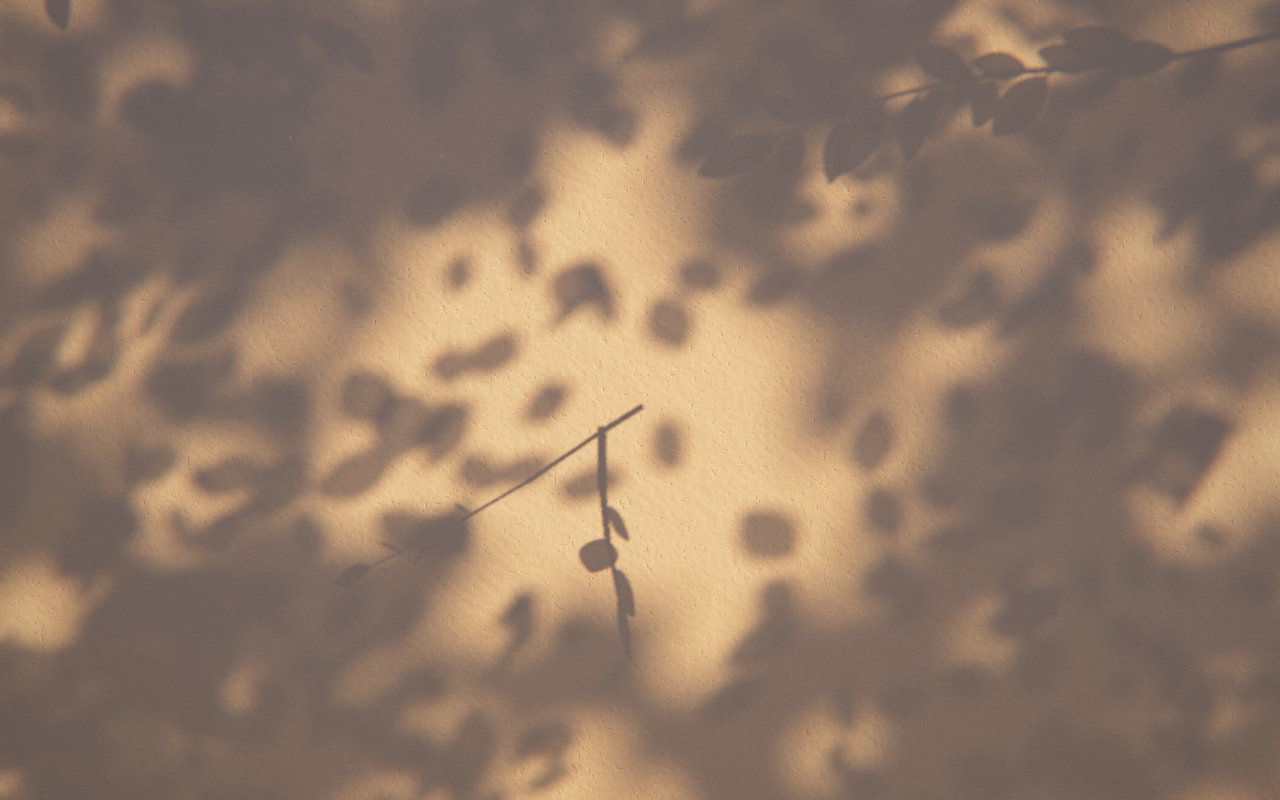
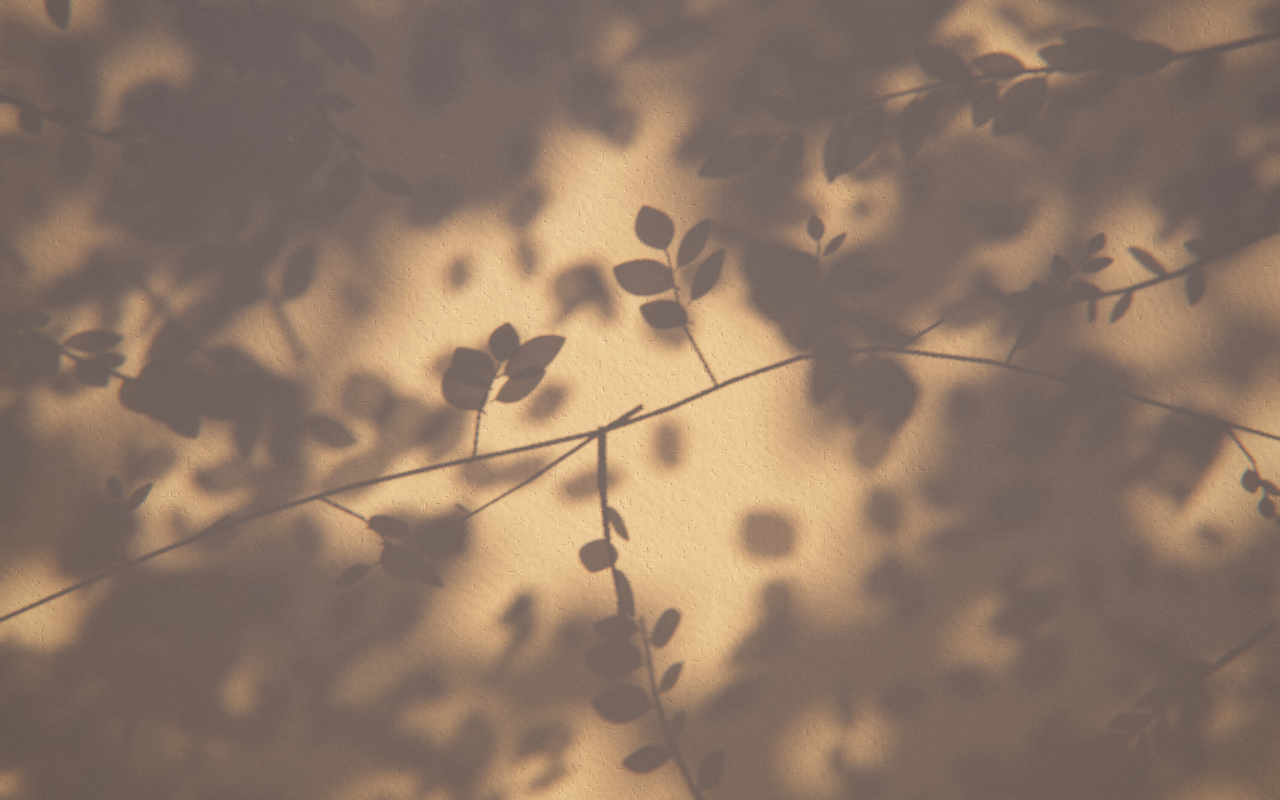
Komorebi Clock: hide the clock among a vine and more branches
The sprig now grows from a node of a vine that climbs across the wall a
few centimetres out, held by small stems. The vine's other side twigs look
much like the hands, and a dozen more 3D branches (six close by from the
edges, six farther out with softer shadows on a third near layer) fill the
wall, so the time only shows when you look for it.

diff --git a/komorebi/extension/newtab.js b/komorebi/extension/newtab.js
@@ -237,7 +237,8 @@ uniform vec4 uSun;     /* projected sun direction xy (unit), elongation 1/s.z, -
 uniform vec4 uRad;     /* penumbra radius (wall units): twig hands, near branches, mid canopy, far canopy */
 uniform vec2 uBias;    /* mip level: mid canopy, far canopy */
 uniform vec4 uPool;    /* the clearing: centre.xy, radius, strength */
-uniform sampler2D uNear;   /* r: twig hands, g: near branches */
+uniform float uRadB;   /* penumbra radius of the farther branches */
+uniform sampler2D uNear;   /* r: the vine and the sprig, g: near branches, b: farther branches */
 uniform sampler2D uCan;    /* r: mid canopy, g: far canopy (mipmapped) */
 ${NOISE}
 vec2 tap(float i, float n, float rot){
@@ -260,7 +261,9 @@ void main(){
   for (int i = 0; i < 28; i++) mid += CANLOD(uCan, uv + E * tap(float(i), 28., rot) * uRad.z * sc, uBias.x).r;
   for (int i = 0; i < 10; i++) nb += texture2D(uNear, uv + E * tap(float(i), 10., rot) * uRad.y * sc).g;
   for (int i = 0; i < 5; i++) hd += texture2D(uNear, uv + E * tap(float(i), 5., rot) * uRad.x * sc).r;
-  float V = (1. - far / 40.) * (1. - mid / 28.) * (1. - nb / 10.) * (1. - hd / 5.);
+  float mb = 0.;
+  for (int i = 0; i < 12; i++) mb += texture2D(uNear, uv + E * tap(float(i), 12., rot) * uRadB * sc).b;
+  float V = (1. - far / 40.) * (1. - mid / 28.) * (1. - nb / 10.) * (1. - hd / 5.) * (1. - mb / 12.);
   float dial = uPool.w * smoothstep(1.05, .55, length((p - uPool.xy) / uPool.z * vec2(.88, 1.)));
   float dith = (hash12(gl_FragCoord.xy + fract(uView.w * 7.3) * 91.7) - .5) / 255.;
   gl_FragColor = vec4(V * .5 + dith, dith, dial * .5, 1.);
@@ -512,6 +515,8 @@ function resize() {
 
   makeLightTarget();
   layoutBranches();
+  buildVine();
+  buildMoreBranches();
   buildCanopy();
 
   if (!plasterFBO) plasterDirty = true;
@@ -889,7 +894,7 @@ function buildCanopy() {
 }
 
 /* Things close to the wall are posed every frame. */
-const NEAR_MAX = 128;
+const NEAR_MAX = 420;
 const nearData = new Float32Array(NEAR_MAX * 4 * FPV);
 let nearQ = 0, kNow = [0, 0];
 const proj = a => [a[0] - a[2] * kNow[0], a[1] - a[2] * kNow[1]];
@@ -929,6 +934,107 @@ function emitClearing(c, R, t) {
     putQuad(nearData, nearQ++, [cx - ux * ra, cy - uy * ra, 0], [ux * 2 * ra, uy * 2 * ra, 0], [-uy * ra * el, ux * ra * el, 0], [0, 0, 2, 1]);
   }
 }
+/* a leaf in 3D: direction in the wall's plane plus a tilt, face toward the wall, turned about its midrib */
+function emitLeaf3D(base, ang, tz, ll, wf, twist, opacity) {
+  let Ld = [Math.cos(ang), Math.sin(ang), tz];
+  const n0 = Math.hypot(Ld[0], Ld[1], Ld[2]); Ld = Ld.map(x => x / n0);
+  let nr = [-Ld[2] * Ld[0], -Ld[2] * Ld[1], 1 - Ld[2] * Ld[2]];
+  const nn = Math.hypot(nr[0], nr[1], nr[2]) || 1; nr = nr.map(x => x / nn);
+  nr = rotAbout(nr, Ld, twist);
+  const Wd = [Ld[1] * nr[2] - Ld[2] * nr[1], Ld[2] * nr[0] - Ld[0] * nr[2], Ld[0] * nr[1] - Ld[1] * nr[0]];
+  const hw = ll * 0.30 * wf;
+  emitLeaf(base, Ld.map(x => x * ll * 1.1), Wd.map(x => x * hw), opacity);
+}
+
+/* A vine climbs across the wall a few centimetres out from it. The clock's
+   sprig grows from one of its nodes; its other side twigs look much the same,
+   so the time hides among them.                                              */
+function catmull(P, u) {
+  const n = P.length - 1, f = Math.min(n - 1e-6, Math.max(0, u) * n), i = Math.floor(f), t = f - i;
+  const p0 = P[Math.max(0, i - 1)], p1 = P[i], p2 = P[i + 1], p3 = P[Math.min(n, i + 2)];
+  const t2 = t * t, t3 = t2 * t;
+  return [0, 1].map(j => 0.5 * (2 * p1[j] + (-p0[j] + p2[j]) * t + (2 * p0[j] - 5 * p1[j] + 4 * p2[j] - p3[j]) * t2 + (-p0[j] + 3 * p1[j] - 3 * p2[j] + p3[j]) * t3));
+}
+let VINE = null;
+function buildVine() {
+  const r = mulberry(909);
+  const pts = [[-halfW - 0.08, -0.30], [-halfW * 0.55, -0.12], [PIVOT.x, PIVOT.y], [halfW * 0.45, 0.10], [halfW + 0.08, -0.04]];
+  const twigs = [0.07, 0.17, 0.29, 0.40, 0.61, 0.71, 0.82, 0.93].map(u => ({
+    u, ang: (r() < 0.5 ? -1 : 1) * (0.5 + 1.1 * r()), len: 0.07 + 0.12 * r(), nl: 3 + Math.floor(r() * 3),
+    side: r() < 0.5 ? -1 : 1, ph: r() * 50, big: r() < 0.35 }));
+  VINE = { pts, twigs, holds: [0.21, 0.76] };
+}
+function emitVine(t) {
+  const V = VINE, N = 16;
+  const zAt = u => Z0 + 0.012 * Math.sin((u - 0.5) * 9);
+  const pt = u => { const q = catmull(V.pts, u); return [q[0], q[1], zAt(u)]; };
+  let prev = pt(0);
+  for (let i = 1; i <= N; i++) { const p = pt(i / N); emitSeg(prev, p, 0.0036 - 0.0012 * Math.abs(i / N - 0.5), 1); prev = p; }
+  for (const h of V.holds) { const p = pt(h); emitSeg([p[0], p[1], 0], p, 0.0024, 1); }   /* holdfasts to the wall */
+  const fl = flutterAt(0);
+  for (const tw of V.twigs) {
+    const b = pt(tw.u), b2 = pt(Math.min(1, tw.u + 0.01));
+    const a = Math.atan2(b2[1] - b[1], b2[0] - b[0]) + tw.ang + fl * 0.05 * sn1(t * 0.8 + tw.ph);
+    const e = [b[0] + Math.cos(a) * tw.len, b[1] + Math.sin(a) * tw.len, b[2] + 0.012];
+    const m = [(b[0] + e[0]) / 2 - Math.sin(a) * tw.len * 0.07, (b[1] + e[1]) / 2 + Math.cos(a) * tw.len * 0.07, b[2] + 0.006];
+    emitSeg(b, m, 0.0026, 1); emitSeg(m, e, 0.0018, 1);
+    for (let k = 0; k < tw.nl; k++) {
+      const s = 0.35 + 0.65 * (k + 1) / tw.nl;
+      const p = [b[0] + (e[0] - b[0]) * s, b[1] + (e[1] - b[1]) * s, b[2] + 0.012 * s];
+      const side = k === tw.nl - 1 ? 0 : (k % 2 ? 1 : -1) * tw.side;
+      const ll = (tw.big ? 0.064 : 0.040) * (0.85 + 0.3 * ((k * 0.37 + tw.ph) % 1));
+      emitLeaf3D(p, a + side * 0.72 + fl * 0.15 * sn1(t * 2.1 + tw.ph + k), 0.25 * (side || 0.6), ll, tw.big ? 1.1 : 0.85,
+                 0.3 * (side || 1) + fl * 0.9 * sn1(t * (0.9 + 0.13 * k) + tw.ph * 1.7), 0.96);
+    }
+  }
+}
+
+/* More branches in front of the wall: some reach in from the edges close by
+   (sharp shadows), some hang farther out (softer ones).                     */
+let MORE = [];
+function buildMoreBranches() {
+  const r = mulberry(31337);
+  MORE = [];
+  const hw = halfW, yb = yBot;
+  const mk = (x, y, ang, z, ch) => {
+    const nSeg = 5 + Math.floor(r() * 3), segs = [], leaves = [];
+    for (let i = 0; i < nSeg; i++) segs.push({ len: (0.05 + 0.05 * r()) * (1 - i / (nSeg + 3)), curve: (r() - 0.5) * 0.45 });
+    const nl = 8 + Math.floor(r() * 8);
+    for (let k = 0; k < nl; k++) leaves.push({ s: 0.15 + 0.85 * (k + r() * 0.8) / nl, side: k % 2 ? 1 : -1, off: 0.45 + 0.5 * r(),
+      len: (0.042 + 0.034 * r()) * (z > 0.5 ? 1.25 : 1), wf: 0.85 + 0.3 * r(), ph: r() * 90, tz: (r() - 0.5) * 0.6 });
+    MORE.push({ x, y, ang, z, ch, segs, leaves, flex: 0.6 + 0.6 * r(), ph: r() * 100 });
+  };
+  for (let i = 0; i < 6; i++) {
+    const side = i % 4;
+    if (side === 0) mk(-hw - 0.04, yb + r() * (0.5 - yb), (r() - 0.5) * 1.2, 0.2 + 0.22 * r(), 1);
+    else if (side === 1) mk(hw + 0.04, yb + r() * (0.5 - yb), Math.PI + (r() - 0.5) * 1.2, 0.2 + 0.22 * r(), 1);
+    else if (side === 2) mk((r() * 2 - 1) * hw, 0.54, -Math.PI / 2 + (r() - 0.5) * 1.4, 0.2 + 0.22 * r(), 1);
+    else mk((r() * 2 - 1) * hw, yb - 0.04, Math.PI / 2 + (r() - 0.5) * 1.4, 0.2 + 0.22 * r(), 1);
+  }
+  for (let i = 0; i < 6; i++) mk((r() * 2 - 1) * hw * 1.05, yb + r() * (0.55 - yb), r() * 6.2832, 0.55 + 0.55 * r(), 2);
+}
+function emitMore(B, t, aK) {
+  const fl = flutterAt(B.x);
+  const bend = (wind.mid.x * 1.6 + 0.010 * sn1(t * 0.33 + B.ph)) * B.flex;
+  let x = B.x, y = B.y, a = B.ang;
+  const pts = [[x, y, a]];
+  for (let i = 0; i < B.segs.length; i++) {
+    a += B.segs[i].curve + bend * (0.3 + 0.25 * i);
+    x += Math.cos(a) * B.segs[i].len; y += Math.sin(a) * B.segs[i].len;
+    pts.push([x, y, a]);
+  }
+  const n = B.segs.length, z = B.z;
+  const w3 = p => [p[0] + z * aK[0], p[1] + z * aK[1], z];
+  for (let i = 0; i < n; i++) emitSeg(w3(pts[i]), w3(pts[i + 1]), (0.0055 - 0.0035 * i / n) * (z > 0.5 ? 1.3 : 1), 1);
+  for (const L of B.leaves) {
+    const f = L.s * n, i = Math.min(n - 1, Math.floor(f)), u = f - i;
+    const p = [pts[i][0] + (pts[i + 1][0] - pts[i][0]) * u, pts[i][1] + (pts[i + 1][1] - pts[i][1]) * u];
+    let ang = pts[i + 1][2] + L.side * L.off + fl * (0.18 * sn1(t * 2.2 + L.ph) + 0.06 * sn1(t * 5.3 + L.ph * 2.1));
+    ang += Math.atan2(Math.sin(-Math.PI / 2 - ang), Math.cos(-Math.PI / 2 - ang)) * 0.15;     /* leaves droop a little */
+    emitLeaf3D(w3(p), ang, L.tz, L.len, L.wf, 0.3 * L.side + fl * 0.9 * sn1(t * 1.1 + L.ph * 1.3), 0.95);
+  }
+}
+
 function rotAbout(v, ax, a) {
   const c = Math.cos(a), s = Math.sin(a);
   const d = ax[0] * v[0] + ax[1] * v[1] + ax[2] * v[2];
@@ -1118,16 +1224,20 @@ function frame(now) {
   emitSeg([PIVOT.x, PIVOT.y, 0], [PIVOT.x, PIVOT.y, Z0], 0.0040, 1);
   emitHand(fr.h, R * 0.62, 0.05, 0.010, 0.0062, 0.0034, HOUR_LEAVES, wt, sw * 0.8, 3.1, R / 0.31);
   emitHand(fr.m, R, -0.035, 0.016, 0.0030, 0.0014, MIN_LEAVES, wt, sw, 11.7, R / 0.31);
+  emitVine(wt);
   const handQ = nearQ;
   poseBranch(branchA, wt, 0, 0, leafA, leafWA, jointA);
   poseBranch(branchB, wt, 0, 0, leafB, leafWB, jointB);
   const aK = [0.85 * k[0], 0.85 * k[1]];      /* the branches hang so their shadows stay near the corners */
   emitBranch(branchA, leafA, leafWA, jointA, 0.34, 0.24, aK, 0.0052, 0.0018);
   emitBranch(branchB, leafB, leafWB, jointB, 0.42, 0.30, aK, 0.0065, 0.0030);
+  for (const B of MORE) if (B.ch === 1) emitMore(B, wt, aK);
   const branchQ = nearQ - handQ;
+  for (const B of MORE) if (B.ch === 2) emitMore(B, wt, aK);
+  const farBrQ = nearQ - handQ - branchQ;
   const holeC = [PIVOT.x - Z0 * k[0], PIVOT.y - Z0 * k[1]];
   emitClearing(holeC, R * 1.12, wt);
-  const clearQ = nearQ - handQ - branchQ;
+  const clearQ = nearQ - handQ - branchQ - farBrQ;
   gl.bindBuffer(gl.ARRAY_BUFFER, nearBuf);
   gl.bufferSubData(gl.ARRAY_BUFFER, 0, nearData.subarray(0, nearQ * 4 * FPV));
 
@@ -1158,7 +1268,7 @@ function frame(now) {
   gl.uniform4f(O.u('uTile'), 0, 0, 0, 0);
   gl.uniform4f(O.u('uW1'), 0, 0, 0, 0);
   gl.uniform4f(O.u('uW2'), -99, 0, 1, 0);
-  drawQuads(nearBuf, handQ + branchQ, clearQ);
+  drawQuads(nearBuf, handQ + branchQ + farBrQ, clearQ);
   gl.blendEquation(gl.FUNC_ADD);
   gl.colorMask(true, true, true, true);
   gl.bindFramebuffer(gl.FRAMEBUFFER, nearT.fb);
@@ -1172,6 +1282,7 @@ function frame(now) {
   gl.uniform4f(O.u('uHole'), 0, 0, 0, 0);
   gl.colorMask(true, false, false, false); drawQuads(nearBuf, 0, handQ);
   gl.colorMask(false, true, false, false); drawQuads(nearBuf, handQ, branchQ);
+  gl.colorMask(false, false, true, false); drawQuads(nearBuf, handQ + branchQ, farBrQ);
   gl.colorMask(true, true, true, true);
   occAttribs(false);
   gl.disable(gl.BLEND);
@@ -1192,6 +1303,7 @@ function frame(now) {
   const lpx = (0.5 - yBot) / lightFBO.h;
   const rMid = penum(1.3), rFar = penum(4.4);
   gl.uniform4f(P.u('uRad'), Math.max(penum(Z0 + 0.01), 0.9 * lpx), Math.max(penum(0.32), lpx), rMid, rFar);
+  gl.uniform1f(P.u('uRadB'), Math.max(penum(0.85), lpx));
   const tpu = canT.h / occRect[3];
   /* mip level where neighbouring taps just overlap: log2 of the tap spacing in texels */
   const bias = (r, n) => Math.max(0, Math.log2(Math.sqrt(Math.PI * (r * tpu) * (r * tpu) / sz / n)) + (lodMode ? 0.2 : -0.5));

diff --git a/komorebi/README.md b/komorebi/README.md
@@ -2,7 +2,7 @@
 
 A Chrome extension that replaces the new tab page with sunlight falling through leaves onto a plaster wall. It is a clock without numerals: the time is told by the shadow of a sprig.
 
-Everything on the wall is a shadow of something in front of it, cast by a sun that moves with the local hour. A far canopy (5 to 9 m from the wall) is an almost closed roof of leaves; the light through its gaps lands as soft, round pinhole images of the sun. A nearer layer of leaves (1.5 to 3 m) casts blurred leaf shapes, two branches by the corners cast sharper ones, and a small stem grows out of the wall about 7 cm. From its knot, a short twig with broad leaves points at the hour and a long slender one at the minute; the stem's own shadow is a little gnomon that turns with the sun. The farther something is from the wall, the softer its shadow, because the sun is a disc rather than a point. Each minute the shadow of a small cloud passes over. The light follows the local hour: pink-orange at dawn, warm white in the morning, bright and neutral at noon, golden with long ellipses in the late afternoon, deep orange at dusk, and cool blue moonlight at night.
+Everything on the wall is a shadow of something in front of it, cast by a sun that moves with the local hour. A far canopy (5 to 9 m from the wall) is an almost closed roof of leaves; the light through its gaps lands as soft, round pinhole images of the sun. A nearer layer of leaves (1.5 to 3 m) casts blurred leaf shapes, and a dozen branches reach in from the edges or hang farther out. A vine climbs across the wall a few centimetres out from it, held by small stems; from one of its nodes a short twig with broad leaves points at the hour and a long slender one at the minute. The vine's other side twigs look much the same, so the time hides among them until you look for it. The holdfast at that node casts a little gnomon that turns with the sun. The farther something is from the wall, the softer its shadow, because the sun is a disc rather than a point. Each minute the shadow of a small cloud passes over. The light follows the local hour: pink-orange at dawn, warm white in the morning, bright and neutral at noon, golden with long ellipses in the late afternoon, deep orange at dusk, and cool blue moonlight at night.
 
 ![screenshot](store/screenshot_1280x800_a.png)
 

diff --git a/README.md b/README.md
@@ -5,7 +5,7 @@ Clocks for the Chrome new tab page. Each folder is a separate Manifest V3 extens
 | Clock | What it is |
 |---|---|
 | [kinetic/](kinetic/) | Kinetic Clock: the time assembled from small sprung tiles that land exactly on the second. |
-| [komorebi/](komorebi/) | Komorebi Clock: tree shadows on a wall, cast by the sun of the hour; the shadow of a sprig's two twigs tells the time. |
+| [komorebi/](komorebi/) | Komorebi Clock: tree shadows on a wall, cast by the sun of the hour; two twigs of a vine, hidden among the branches, tell the time. |
 
 ![Kinetic Clock](kinetic/store/screenshot_1280x800_a.png)
 
